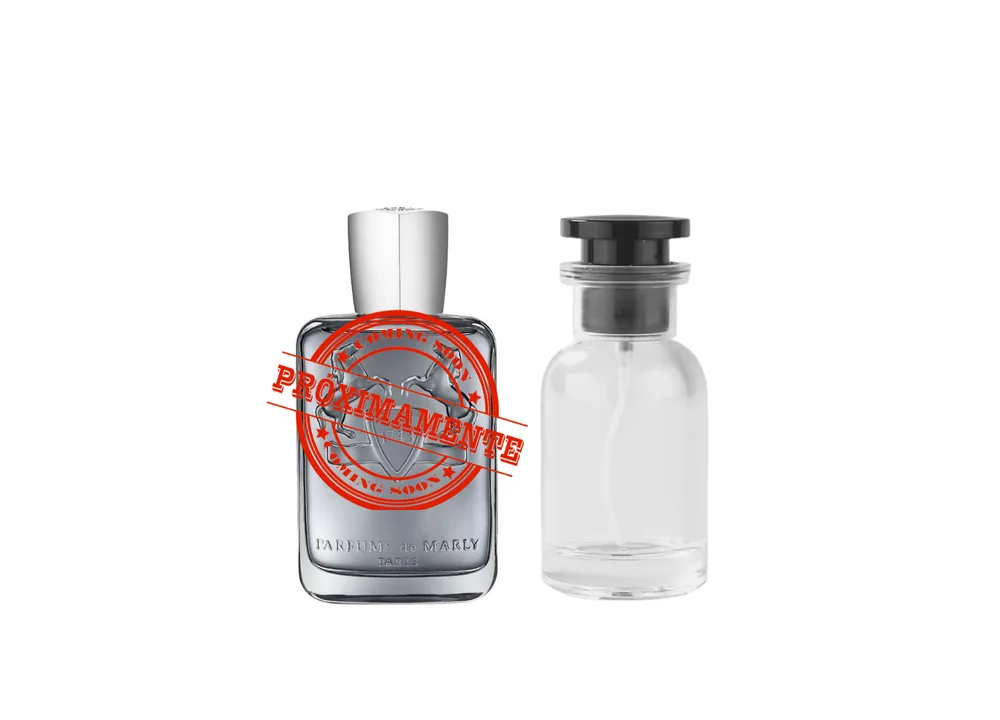
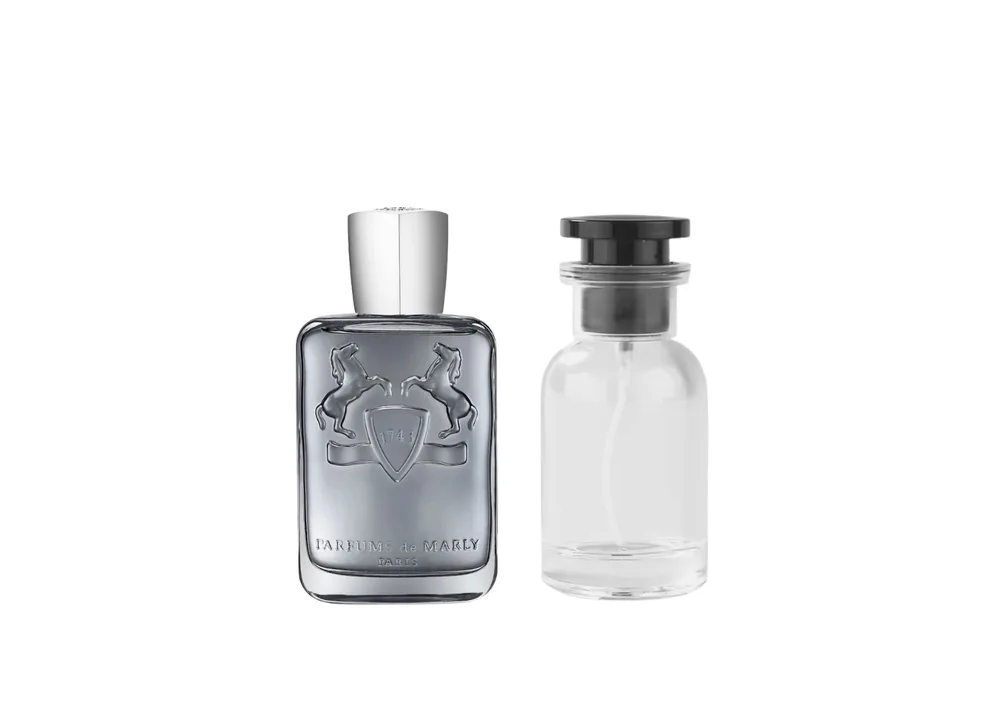
fix: replace baked-in Próximamente photos for Fierezza, Ani and Castley
Regenerates the optimized product images for Fierezza, Ani and Castley
from the new clean source photos in img/perfumes (gitignored raw
originals), using the project's existing sharp pipeline settings
(1000px width, q82 webp). These three were marked available in a
previous session but still showed the old "PRÓXIMAMENTE" stamp baked
into the bottle photo itself.

Gris Charnel EDP is intentionally left untouched: no new source photo
was provided for it (the only recently-added file near its name is
"gris charnel extrait", a different product, id 82) — it still needs
a real replacement.

Bumps the service worker VERSION so the stale-while-revalidate image
cache is invalidated and returning visitors fetch the new photos.

Changed region(s): [[0.248, 0.4278, 0.527, 0.7333]]

diff --git a/sw.js b/sw.js
@@ -7,7 +7,7 @@
  * DEBE bumpear VERSION o los clientes se quedan con código viejo.
  */
 const RELEASE = "20260917";
-const VERSION = "fo-v79-completos-inventory";
+const VERSION = "fo-v80-clean-product-photos";
 const CORE_CACHE = `core-${VERSION}`;
 const IMG_CACHE = `img-${VERSION}`;
 const FONT_CACHE = `font-${VERSION}`;
